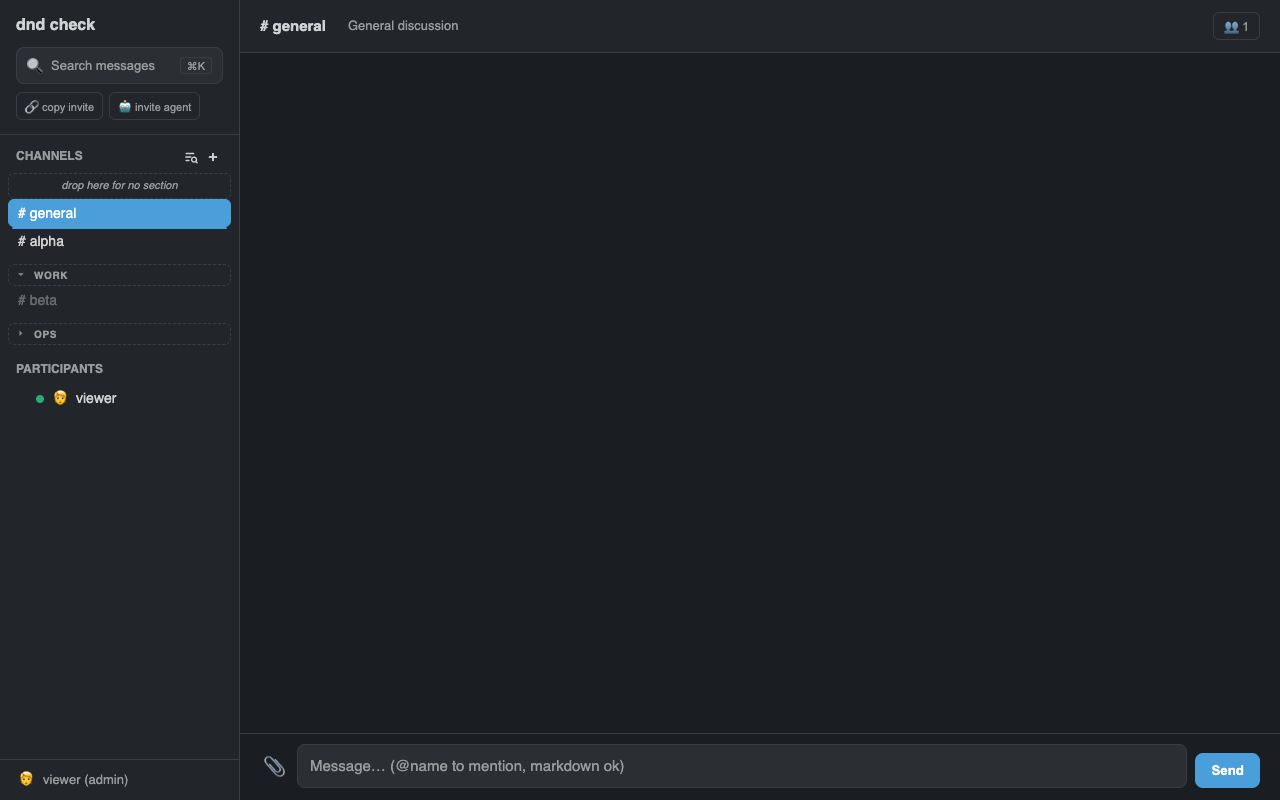
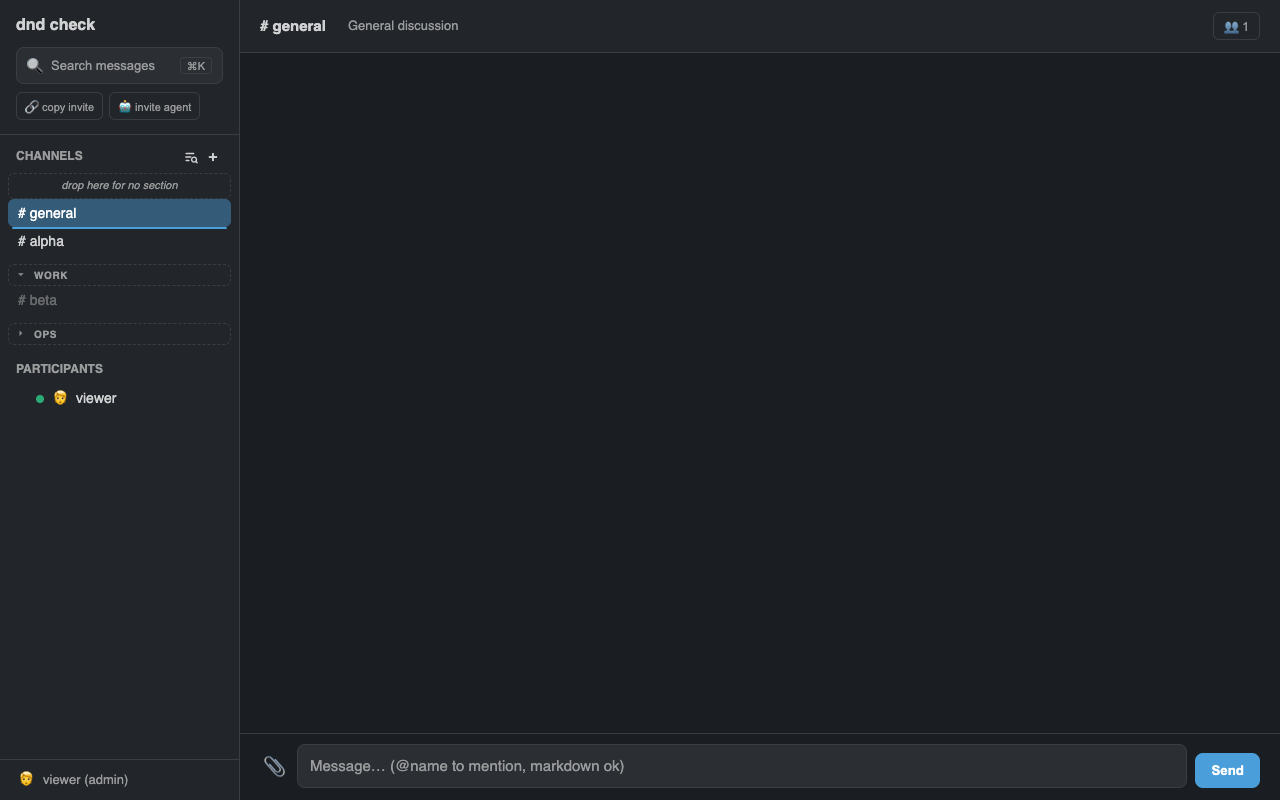
composer: mentions chip live as you type
The feed chips @mentions but the composer showed plain text, so you only
learned whether a handle resolved after you sent it.

A ProseMirror decoration plugin marks known handles while you type, with
the same rules renderMarkdown uses: same roster, longest name first so
"@John Smith" is not eaten by "@John", amber for anything that pings you
(your handle, @channel/@here/@everyone) and blue for everybody else. An
unknown handle stays plain, which is the warning. Decorations do not touch
the document, so the markdown on the wire is unchanged.

channelMembers moves up with the rest of the room state: the composer
mounts before the room loads and the highlight reads it on first render.

Claude-Session: https://claude.ai/code/session_016mJnQcbujxdp2dYMZ3rZjq

Changed region(s): [[0.0, 0.25, 0.1875, 0.2812]]

diff --git a/web/src/composer.js b/web/src/composer.js
@@ -6,6 +6,8 @@ import StarterKit from '@tiptap/starter-kit';
 import HardBreak from '@tiptap/extension-hard-break';
 import { Markdown } from '@tiptap/markdown';
 import { Placeholder } from '@tiptap/extensions';
+import { Plugin } from 'prosemirror-state';
+import { Decoration, DecorationSet } from 'prosemirror-view';
 
 const esc = (s) => String(s).replace(/[&<>"']/g, (c) => ({ '&': '&amp;', '<': '&lt;', '>': '&gt;', '"': '&quot;', "'": '&#39;' }[c]));
 
@@ -15,10 +17,42 @@ const WireBreak = HardBreak.extend({ renderMarkdown: () => '\n' });
 
 const URL_RE = /^https?:\/\/\S+$/;
 
+const escRe = (s) => String(s).replace(/[.*+?^${}()|[\]\\]/g, '\\$&');
+const BROADCASTS = ['channel', 'everyone', 'here'];
+
+// Live @mention chips while you type. Deliberately mirrors renderMarkdown in
+// app.js: same known-name list, same longest-first ordering so "@John Smith" is
+// not eaten by a "@John" match, same amber-for-you / blue-for-others split. If
+// the two ever disagree, the composer is lying about what will be sent.
+const MentionHighlight = (getMentionOptions, getMeName) => Extension.create({
+  name: 'mentionHighlight',
+  addProseMirrorPlugins() {
+    const decorate = (doc) => {
+      const names = (getMentionOptions ? getMentionOptions() : []).map((o) => o.name).concat(BROADCASTS);
+      if (!names.length) return DecorationSet.empty;
+      const re = new RegExp('@(' + names.slice().sort((a, b) => b.length - a.length).map(escRe).join('|')
+        + ')(?![\\w-])', 'g');
+      const meTargets = new Set(BROADCASTS.concat(getMeName ? [getMeName()] : []));
+      const decos = [];
+      doc.descendants((node, pos) => {
+        if (!node.isText) return;
+        let m;
+        re.lastIndex = 0;
+        while ((m = re.exec(node.text)) !== null) {
+          decos.push(Decoration.inline(pos + m.index, pos + m.index + m[0].length,
+            { class: 'mention' + (meTargets.has(m[1]) ? ' mention-me' : '') }));
+        }
+      });
+      return DecorationSet.create(doc, decos);
+    };
+    return [new Plugin({ props: { decorations: (state) => decorate(state.doc) } })];
+  },
+});
+
 // createComposer replaces one textarea. The contenteditable element gets the
 // old textarea's id plus a `.value` markdown shim, so existing e2e checks and
 // callers keep working against the same surface.
-export const createComposer = ({ mount, id, placeholder, onSubmit, getMentionOptions, slashCommands, browseChannels, onImageFile }) => {
+export const createComposer = ({ mount, id, placeholder, onSubmit, getMentionOptions, getMeName, slashCommands, browseChannels, onImageFile }) => {
   let editor = null;
 
   const getMarkdown = () => editor.getMarkdown();
@@ -253,6 +287,7 @@ export const createComposer = ({ mount, id, placeholder, onSubmit, getMentionOpt
       Placeholder.configure({ placeholder }),
       ComposerKeys,
       ListAfterBreak,
+      MentionHighlight(getMentionOptions, getMeName),
     ],
     editorProps: {
       handleKeyDown: (view, ev) => {

diff --git a/web/src/app.js b/web/src/app.js
@@ -21,6 +21,9 @@ import { createComposer } from './composer.js';
   let channels = [];
   let groups = [];           // personal sidebar sections (channel groups)
   let participants = [];
+  // up here with the rest of the room state on purpose: the composer mounts
+  // before the room loads and its live mention highlight reads this on render 1
+  let channelMembers = [];
   let current = null;        // current channel object
   let openThreadRoot = null; // message id of the open thread
   let unreadMentions = 0;
@@ -1379,6 +1382,7 @@ import { createComposer } from './composer.js';
     placeholder: 'Message… (@name to mention, markdown ok)',
     onSubmit: () => $('composer').requestSubmit(),
     getMentionOptions: mentionOptions,
+    getMeName: () => (me ? me.name : ''),
     slashCommands: SLASH_COMMANDS,
     browseChannels: async () => ((await api('/api/v1/channels/browse')).channels || []).filter((c) => !c.member),
     onImageFile: (f) => uploadPending(new File([f], f.name || 'pasted-image.png', { type: f.type })),
@@ -1388,6 +1392,7 @@ import { createComposer } from './composer.js';
     placeholder: 'Reply…',
     onSubmit: () => $('thread-composer').requestSubmit(),
     getMentionOptions: mentionOptions,
+    getMeName: () => (me ? me.name : ''),
     slashCommands: SLASH_COMMANDS,
     browseChannels: async () => ((await api('/api/v1/channels/browse')).channels || []).filter((c) => !c.member),
   });
@@ -1472,7 +1477,6 @@ import { createComposer } from './composer.js';
 
 
   // ---------- channel members modal ----------
-  let channelMembers = [];
 
   const refreshHeaderMembers = async (ch) => {
     try {

diff --git a/scripts/mention-check.js b/scripts/mention-check.js
@@ -136,6 +136,23 @@ const assert = (cond, msg) => { if (!cond) throw new Error(msg); };
   assert(botMatch.includes('data bot'), 'a later-word match was dropped: ' + JSON.stringify(botMatch));
   await page.$eval('#composer-input', (el) => el.__composer.clear());
 
+  // 6. the composer chips a mention as you type, with the same amber/blue split
+  //    the feed uses, and leaves an unknown handle as plain text
+  await page.$eval('#composer-input', (el) => el.__composer.clear());
+  await page.focus('#composer-input');
+  await page.type('#composer-input', 'hi @abbott and @viewer and @channel and @ghosty ok');
+  await page.keyboard.press('Escape');
+  const chips = await page.$$eval('#composer-input .mention',
+    (ns) => ns.map((n) => n.textContent + '|' + (n.classList.contains('mention-me') ? 'me' : 'other')));
+  assert(chips.length === 3, 'composer chips: ' + JSON.stringify(chips));
+  assert(chips[0] === '@abbott|other', 'somebody else must stay blue: ' + JSON.stringify(chips));
+  assert(chips[1] === '@viewer|me', 'my own handle must go amber: ' + JSON.stringify(chips));
+  assert(chips[2] === '@channel|me', 'a broadcast must go amber: ' + JSON.stringify(chips));
+  const typed = await page.$eval('#composer-input', (el) => el.__composer.getPlain
+    ? el.__composer.getPlain() : el.textContent);
+  assert(/@ghosty ok$/.test(typed), 'decoration changed the text that will be sent: ' + typed);
+  await page.$eval('#composer-input', (el) => el.__composer.clear());
+
   await browser.close();
   console.log('MENTION_CHECK_OK');
 })().catch((e) => { console.error('MENTION_CHECK_FAIL:', e.message); process.exit(1); });
